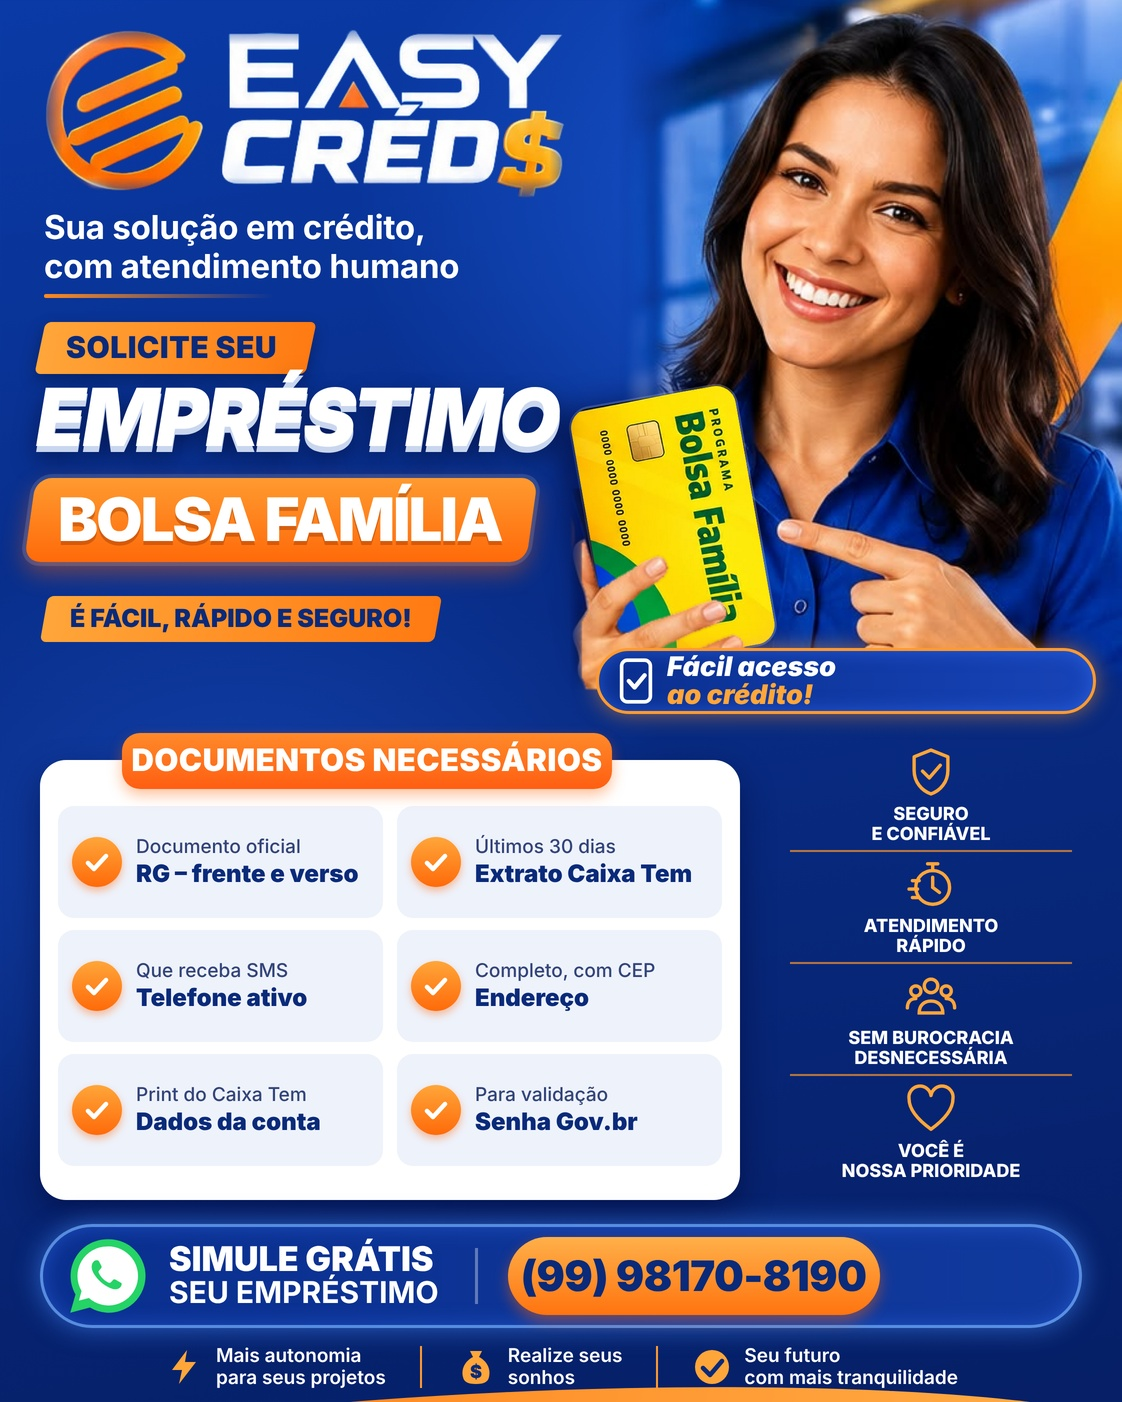
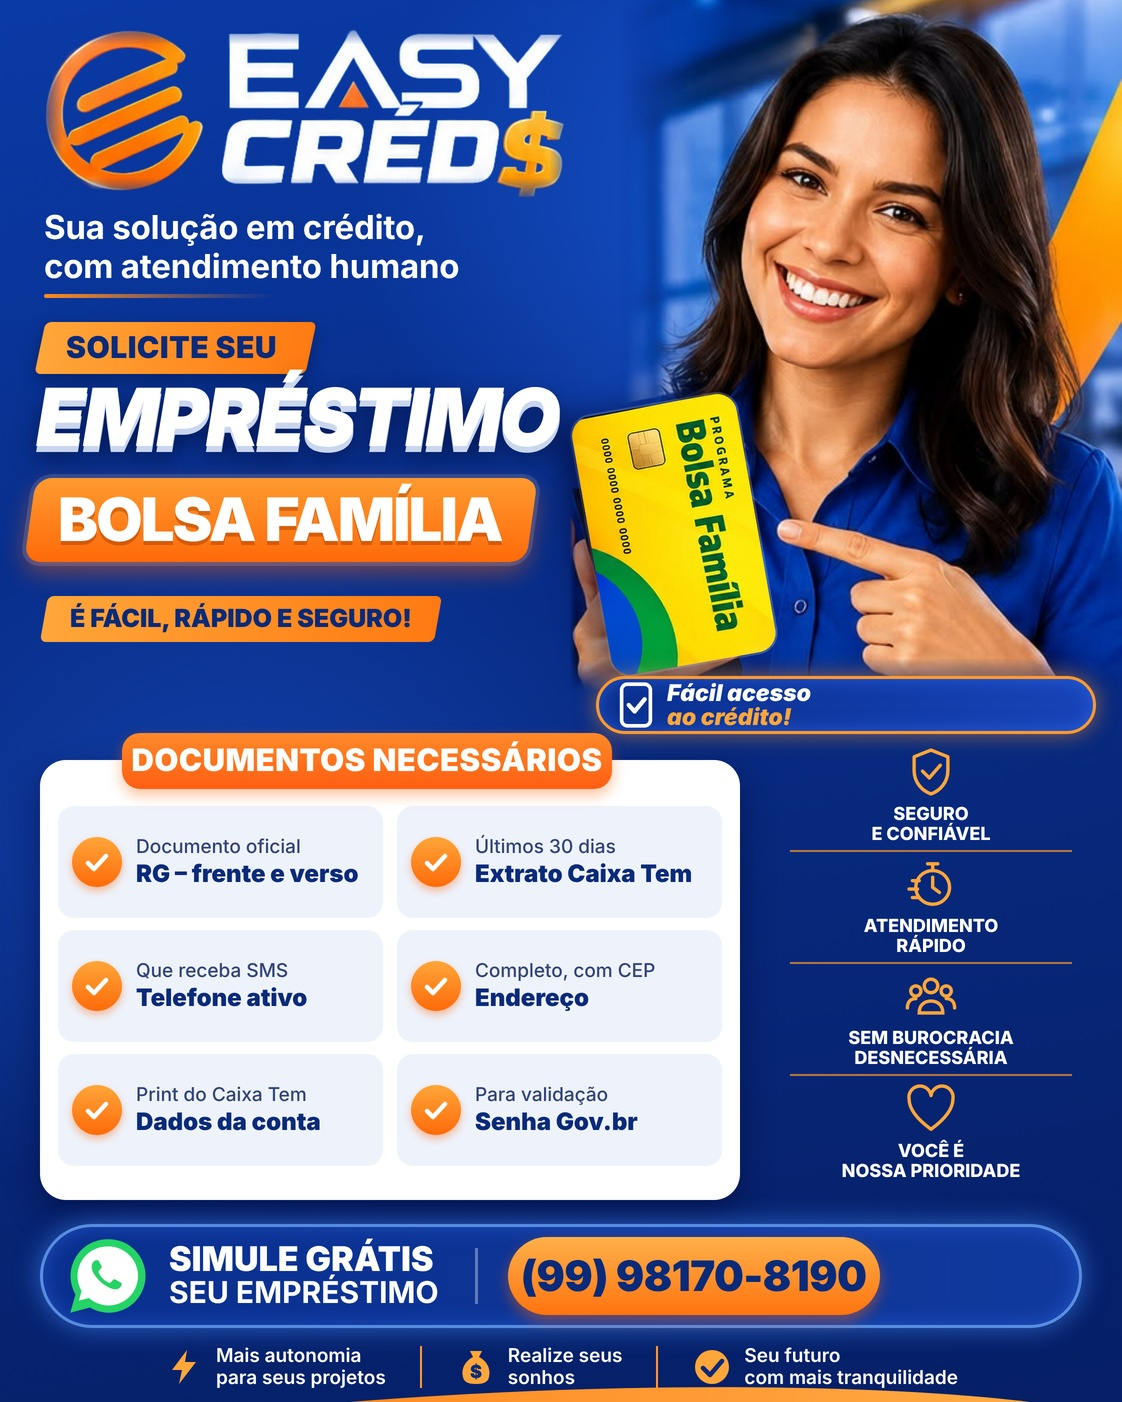
Card in front, hand holds it from behind (no overlap)
Claude-Session: https://claude.ai/code/session_01628SCs86MQsSSCAYJir1oD

Changed region(s): [[0.4991, 0.276, 0.9982, 0.5521]]

diff --git a/arte-easy-creds/fonte/page.html b/arte-easy-creds/fonte/page.html
@@ -9,7 +9,7 @@ body{width:1122px;height:1402px;position:relative;overflow:hidden;font-family:'I
 .tag i{display:block;width:230px;height:4px;margin-top:8px;border-radius:4px;background:linear-gradient(90deg,#ff8a1f,rgba(255,138,31,0))}
 .woman{left:569px;top:-25px;width:553px;height:715px}
 .woman>img{position:absolute;left:0;top:0;width:100%;height:100%}
-.card{position:absolute;width:262px;left:-27px;top:468px;transform:rotate(80deg);border-radius:20px;overflow:hidden;
+.card{position:absolute;width:262px;left:-26px;top:476px;transform:rotate(80deg);border-radius:20px;overflow:hidden;
  box-shadow:0 18px 30px rgba(0,0,40,.55),0 0 0 2px rgba(255,255,255,.25)}
 .card img{width:100%;display:block}
 .pre{left:40px;top:322px;transform:skewX(-12deg);background:linear-gradient(90deg,#ffa63a,#ff7a12);padding:8px 34px 8px 26px;border-radius:6px;
@@ -23,9 +23,9 @@ body{width:1122px;height:1402px;position:relative;overflow:hidden;font-family:'I
 .strip{left:44px;top:596px;transform:skewX(-10deg);background:linear-gradient(90deg,#ffa63a,#ff7a12);padding:8px 26px;border-radius:6px;
  font-size:25px;font-weight:900;color:#0a2a7a;white-space:nowrap}
 .strip span{display:inline-block;transform:skewX(10deg)}
-.badge{left:596px;top:648px;width:500px;height:66px;border-radius:36px;z-index:5;background:linear-gradient(90deg,#0a2f8f,#1744b8);
+.badge{left:596px;top:676px;width:500px;height:58px;border-radius:36px;z-index:5;background:linear-gradient(90deg,#0a2f8f,#1744b8);
  border:3px solid #ff9a30;box-shadow:0 0 22px rgba(255,150,40,.55),inset 0 0 18px rgba(60,120,255,.5);display:flex;align-items:center;padding-left:20px;gap:14px}
-.badge .tx{font-size:27px;font-weight:900;font-style:italic;line-height:1.05}
+.badge .tx{font-size:23px;font-weight:900;font-style:italic;line-height:1.05}
 .badge .tx b{color:#ffa63a;display:block}
 .panel{left:40px;top:760px;width:700px;height:440px;background:#fff;border-radius:26px;box-shadow:0 14px 34px rgba(0,0,40,.45)}
 .ptag{left:122px;top:733px;width:490px;height:56px;border-radius:18px;background:linear-gradient(180deg,#ff8a2a,#ff5e12);
@@ -63,7 +63,6 @@ body{width:1122px;height:1402px;position:relative;overflow:hidden;font-family:'I
 <div class="abs woman">
   <img src="woman.png">
   <div class="card"><img src="card.png"></div>
-  <img src="hands.png">
 </div>
 
 <div class="abs pre"><span>SOLICITE SEU</span></div>

diff --git a/arte-easy-creds/fonte/prep.py b/arte-easy-creds/fonte/prep.py
@@ -15,8 +15,8 @@ for y in range(H):
 # left feather only above the hand zone
 for x in range(100):
     a[:395,x]*=min(1,max(0,(x-38)/60))
-for x in range(16):
-    a[395:,x]*=x/16
+for x in range(5):
+    a[395:,x]*=x/5
 al=Image.fromarray((a*255).astype(np.uint8))
 w.putalpha(al); w.save(A+'woman.png')
 
